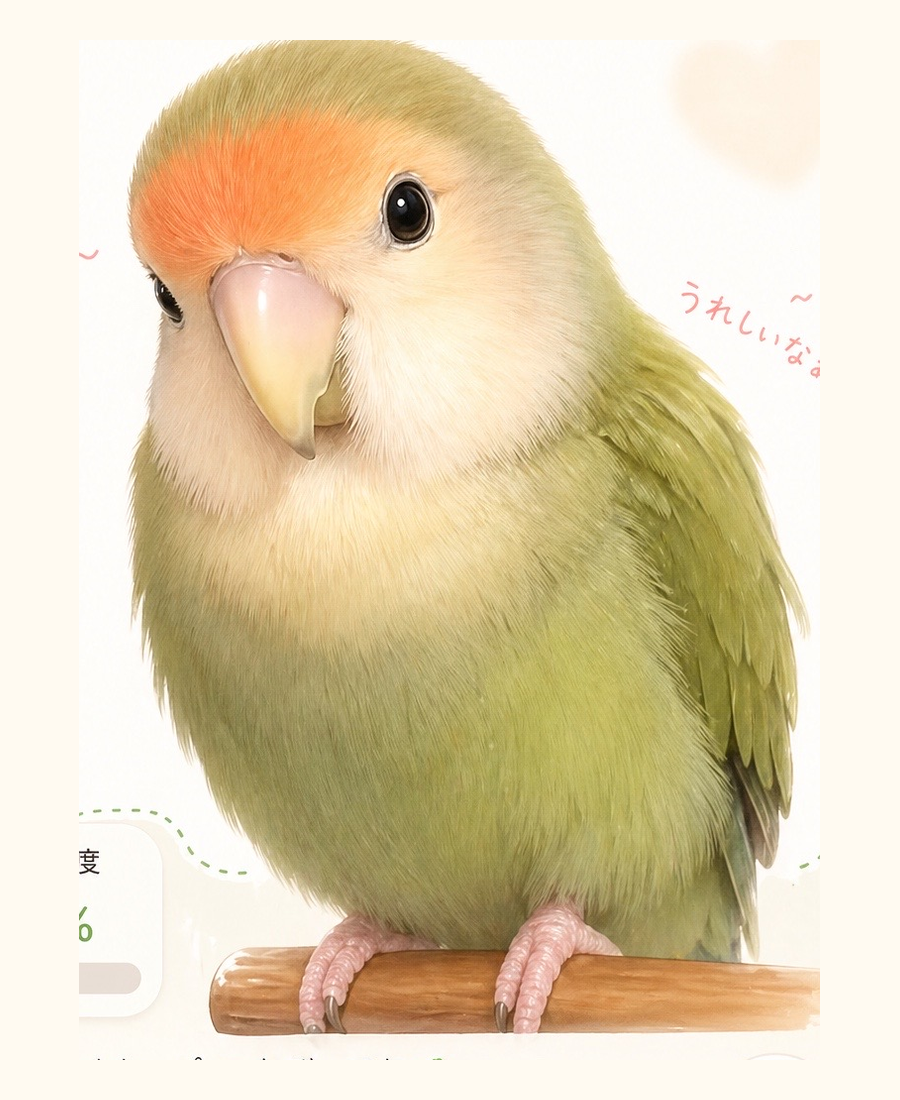
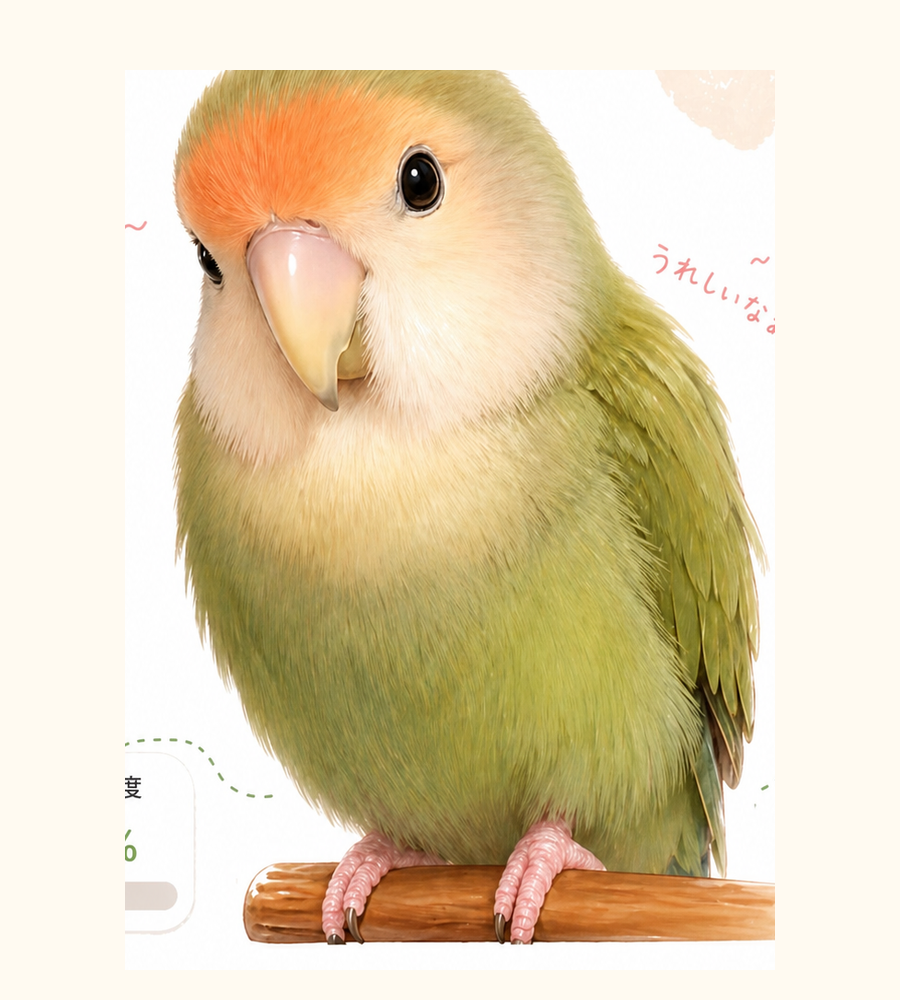
Add files via upload

diff --git a/style.css b/style.css
@@ -2,6 +2,7 @@
   box-sizing: border-box;
   -webkit-tap-highlight-color: transparent;
 }
+
 html, body {
   margin: 0;
   padding: 0;
@@ -9,20 +10,23 @@ html, body {
   font-family: -apple-system, BlinkMacSystemFont, "Hiragino Sans", "Yu Gothic", "YuGothic", sans-serif;
   overflow: hidden;
 }
+
 .app {
   width: 100vw;
   height: 100vh;
-  background: linear-gradient(180deg, #fffaf1 0%, #fff3df 100%);
+  background: linear-gradient(180deg, #fffdf7 0%, #fff0da 100%);
   display: flex;
   align-items: center;
   justify-content: center;
 }
+
 .game {
   position: relative;
   width: min(100vw, 520px);
   height: min(100vh, 760px);
   overflow: hidden;
 }
+
 .titleBox {
   position: absolute;
   top: 18px;
@@ -33,22 +37,26 @@ html, body {
   color: #65472f;
   pointer-events: none;
 }
+
 .title {
   font-size: clamp(25px, 7vw, 38px);
   font-weight: 900;
   color: #6c9d45;
   text-shadow: 0 3px 0 rgba(255,255,255,.9);
 }
+
 .subtitle {
   margin-top: 6px;
   font-size: clamp(13px, 3.6vw, 16px);
   font-weight: 800;
+  color: #5f4633;
 }
+
 #maroImg {
   position: absolute;
   left: 50%;
-  top: 52%;
-  width: 112%;
+  top: 48%;
+  width: 118%;
   height: auto;
   transform: translate(-50%, -50%);
   display: block;
@@ -56,6 +64,7 @@ html, body {
   pointer-events: none;
   border-radius: 18px;
 }
+
 .zone {
   position: absolute;
   border: 0;
@@ -66,24 +75,25 @@ html, body {
   touch-action: none;
   z-index: 10;
 }
-.head { left: 31%; top: 27%; width: 38%; height: 12%; }
-.forehead { left: 31%; top: 31%; width: 27%; height: 9%; }
-.leftCheek { left: 24%; top: 40%; width: 18%; height: 13%; }
-.rightCheek { left: 52%; top: 37%; width: 20%; height: 13%; }
-.wingLeft { left: 19%; top: 55%; width: 20%; height: 25%; }
-.wingRight { left: 67%; top: 52%; width: 23%; height: 30%; }
-.belly { left: 39%; top: 58%; width: 27%; height: 25%; }
-.feet { left: 31%; top: 82%; width: 45%; height: 9%; }
+
+.head { left: 31%; top: 24%; width: 38%; height: 12%; }
+.forehead { left: 31%; top: 28%; width: 27%; height: 9%; }
+.leftCheek { left: 24%; top: 37%; width: 18%; height: 13%; }
+.rightCheek { left: 52%; top: 34%; width: 20%; height: 13%; }
+.wingLeft { left: 18%; top: 52%; width: 20%; height: 24%; }
+.wingRight { left: 67%; top: 50%; width: 23%; height: 29%; }
+.belly { left: 39%; top: 55%; width: 27%; height: 24%; }
+.feet { left: 31%; top: 78%; width: 45%; height: 9%; }
 
 .reactionText {
   position: absolute;
   left: 5%;
   right: 5%;
-  bottom: 11%;
+  bottom: 22%;
   min-height: 44px;
   padding: 10px 14px;
   border-radius: 18px;
-  background: rgba(255, 255, 255, 0.92);
+  background: rgba(255, 255, 255, 0.94);
   box-shadow: 0 8px 22px rgba(95, 74, 45, 0.12);
   color: #69492f;
   font-size: clamp(17px, 4.6vw, 23px);
@@ -96,10 +106,12 @@ html, body {
   pointer-events: none;
   z-index: 30;
 }
+
 .reactionText.show {
   opacity: 1;
   transform: translateY(0);
 }
+
 .effect {
   position: absolute;
   inset: 0;
@@ -107,23 +119,56 @@ html, body {
   font-size: 34px;
   z-index: 25;
 }
+
 .float {
   position: absolute;
   animation: floatUp 900ms ease-out forwards;
   filter: drop-shadow(0 4px 5px rgba(0,0,0,.08));
 }
-.happyMove { animation: happyMove 500ms ease; }
-.badMove { animation: badMove 420ms ease; }
-.maybeMove { animation: maybeMove 500ms ease; }
+
+.friendBox {
+  position: absolute;
+  left: 18px;
+  right: 18px;
+  bottom: 80px;
+  padding: 12px 14px;
+  border-radius: 20px;
+  background: rgba(255,255,255,.92);
+  box-shadow: 0 8px 22px rgba(95, 74, 45, 0.12);
+  z-index: 40;
+}
+
+.friendLabel {
+  font-size: 17px;
+  font-weight: 900;
+  color: #5f4633;
+  margin-bottom: 8px;
+}
+
+.friendBar {
+  height: 18px;
+  border-radius: 999px;
+  background: #eee0d2;
+  overflow: hidden;
+}
+
+#friendFill {
+  width: 50%;
+  height: 100%;
+  border-radius: 999px;
+  background: linear-gradient(90deg, #ff9e9e, #ffc56e, #8fcb66);
+  transition: width .22s ease;
+}
 
 .controls {
-  position: fixed;
+  position: absolute;
   left: 18px;
   bottom: 18px;
   display: flex;
   gap: 10px;
   z-index: 50;
 }
+
 .controlBtn {
   border: 0;
   border-radius: 999px;
@@ -134,17 +179,24 @@ html, body {
   font-weight: 900;
   font-size: 15px;
 }
+
+.happyMove { animation: happyMove 500ms ease; }
+.badMove { animation: badMove 420ms ease; }
+.maybeMove { animation: maybeMove 500ms ease; }
+
 @keyframes floatUp {
   0% { opacity: 0; transform: translateY(12px) scale(.8) rotate(0deg); }
   20% { opacity: 1; }
   100% { opacity: 0; transform: translateY(-90px) scale(1.35) rotate(12deg); }
 }
+
 @keyframes happyMove {
   0% { transform: translate(-50%, -50%) scale(1) rotate(0); }
   35% { transform: translate(-50%, -50%) scale(1.035) rotate(-1.5deg); }
   70% { transform: translate(-50%, -50%) scale(1.02) rotate(1.5deg); }
   100% { transform: translate(-50%, -50%) scale(1) rotate(0); }
 }
+
 @keyframes badMove {
   0% { transform: translate(-50%, -50%); }
   25% { transform: translate(calc(-50% - 9px), -50%); }
@@ -152,6 +204,7 @@ html, body {
   75% { transform: translate(calc(-50% - 5px), -50%); }
   100% { transform: translate(-50%, -50%); }
 }
+
 @keyframes maybeMove {
   0% { transform: translate(-50%, -50%) rotate(0); }
   40% { transform: translate(-50%, -50%) rotate(-2.5deg); }

diff --git a/script.js b/script.js
@@ -5,17 +5,21 @@ const effect = document.getElementById("effect");
 const zones = document.querySelectorAll(".zone");
 const soundBtn = document.getElementById("soundBtn");
 const resetBtn = document.getElementById("resetBtn");
+const friendFill = document.getElementById("friendFill");
+const friendValue = document.getElementById("friendValue");
 
 let soundOn = true;
 let audioCtx = null;
 let lastTime = 0;
+let friend = 50;
 
 const happyMessages = [
   "そこそこ〜♡ マロちゃんうっとり",
   "ぴよっ♪ 気持ちいい〜",
   "もっとカキカキして〜♡",
   "マロちゃん、ごきげん！",
-  "ほっぺ最高〜♡"
+  "ほっぺ最高〜♡",
+  "おでこカキカキ、だいすき！"
 ];
 
 const badMessages = [
@@ -36,16 +40,29 @@ const maybeMessages = [
 function pick(list) {
   return list[Math.floor(Math.random() * list.length)];
 }
+
+function clamp(n, min, max) {
+  return Math.max(min, Math.min(max, n));
+}
+
+function updateFriend(delta) {
+  friend = clamp(friend + delta, 0, 100);
+  friendFill.style.width = friend + "%";
+  friendValue.textContent = friend;
+}
+
 function showText(text) {
   reactionText.textContent = text;
   reactionText.classList.add("show");
   clearTimeout(showText.timer);
   showText.timer = setTimeout(() => reactionText.classList.remove("show"), 1300);
 }
+
 function initAudio() {
   if (!audioCtx) audioCtx = new (window.AudioContext || window.webkitAudioContext)();
   if (audioCtx.state === "suspended") audioCtx.resume();
 }
+
 function tone(freq, delay, dur, type, vol) {
   if (!soundOn || !audioCtx) return;
   const osc = audioCtx.createOscillator();
@@ -61,6 +78,7 @@ function tone(freq, delay, dur, type, vol) {
   osc.start(audioCtx.currentTime + delay);
   osc.stop(audioCtx.currentTime + delay + dur + 0.03);
 }
+
 function happySound() {
   initAudio();
   const base = 1200 + Math.random() * 500;
@@ -68,16 +86,19 @@ function happySound() {
   tone(base * 1.25, .08, .08, "sine", .10);
   tone(base * 1.05, .17, .10, "triangle", .08);
 }
+
 function badSound() {
   initAudio();
   const base = 600 + Math.random() * 260;
   tone(base, 0, .12, "sawtooth", .08);
   tone(base * .75, .09, .12, "square", .05);
 }
+
 function maybeSound() {
   initAudio();
   tone(850 + Math.random() * 220, 0, .10, "triangle", .07);
 }
+
 function addFloat(symbol, x, y) {
   const span = document.createElement("span");
   span.className = "float";
@@ -87,11 +108,13 @@ function addFloat(symbol, x, y) {
   effect.appendChild(span);
   setTimeout(() => span.remove(), 950);
 }
+
 function move(type) {
   maroImg.classList.remove("happyMove", "badMove", "maybeMove");
   void maroImg.offsetWidth;
   maroImg.classList.add(type);
 }
+
 function react(type, event) {
   const now = Date.now();
   if (now - lastTime < 170) return;
@@ -105,20 +128,24 @@ function react(type, event) {
     showText(pick(happyMessages));
     move("happyMove");
     happySound();
+    updateFriend(3);
     addFloat("♡", x, y);
     addFloat("✨", x + 25, y + 10);
   } else if (type === "bad") {
     showText(pick(badMessages));
     move("badMove");
     badSound();
+    updateFriend(-5);
     addFloat("ぷいっ", x - 25, y);
   } else {
     showText(pick(maybeMessages));
     move("maybeMove");
     maybeSound();
+    updateFriend(Math.random() < 0.5 ? -1 : 1);
     addFloat("？", x, y);
   }
 }
+
 zones.forEach(zone => {
   zone.addEventListener("pointerdown", (e) => {
     e.preventDefault();
@@ -130,12 +157,16 @@ zones.forEach(zone => {
     react(zone.dataset.zone, e);
   });
 });
+
 soundBtn.addEventListener("click", () => {
   soundOn = !soundOn;
   soundBtn.textContent = soundOn ? "🔊 音ON" : "🔇 音OFF";
   if (soundOn) happySound();
 });
+
 resetBtn.addEventListener("click", () => {
+  friend = 50;
+  updateFriend(0);
   showText("マロちゃん、なでてほしそう…");
   move("happyMove");
 });

diff --git a/index.html b/index.html
@@ -8,7 +8,7 @@
 </head>
 <body>
   <main class="app">
-    <div class="game">
+    <section class="game">
       <div class="titleBox">
         <div class="title">マロちゃんカキカキ</div>
         <div class="subtitle">頭・おでこ・ほっぺをやさしくカキカキしてね</div>
@@ -27,12 +27,19 @@
 
       <div id="reactionText" class="reactionText">マロちゃん、なでてほしそう…</div>
       <div id="effect" class="effect"></div>
-    </div>
 
-    <div class="controls">
-      <button id="soundBtn" class="controlBtn">🔊 音ON</button>
-      <button id="resetBtn" class="controlBtn">もう一回</button>
-    </div>
+      <div class="friendBox">
+        <div class="friendLabel">なかよし度 <span id="friendValue">50</span>%</div>
+        <div class="friendBar">
+          <div id="friendFill"></div>
+        </div>
+      </div>
+
+      <div class="controls">
+        <button id="soundBtn" class="controlBtn">🔊 音ON</button>
+        <button id="resetBtn" class="controlBtn">もう一回</button>
+      </div>
+    </section>
   </main>
 
   <script src="script.js"></script>
